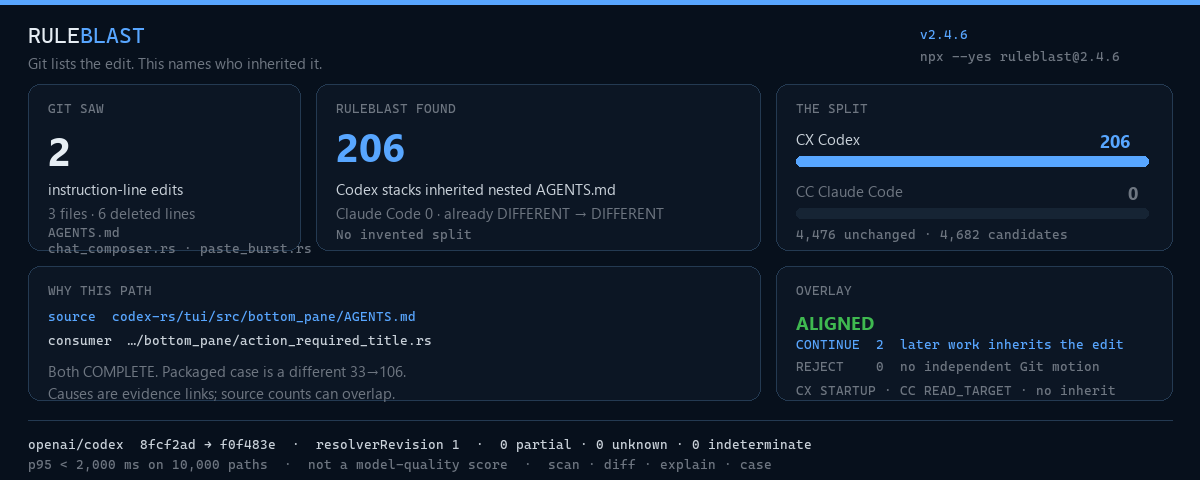
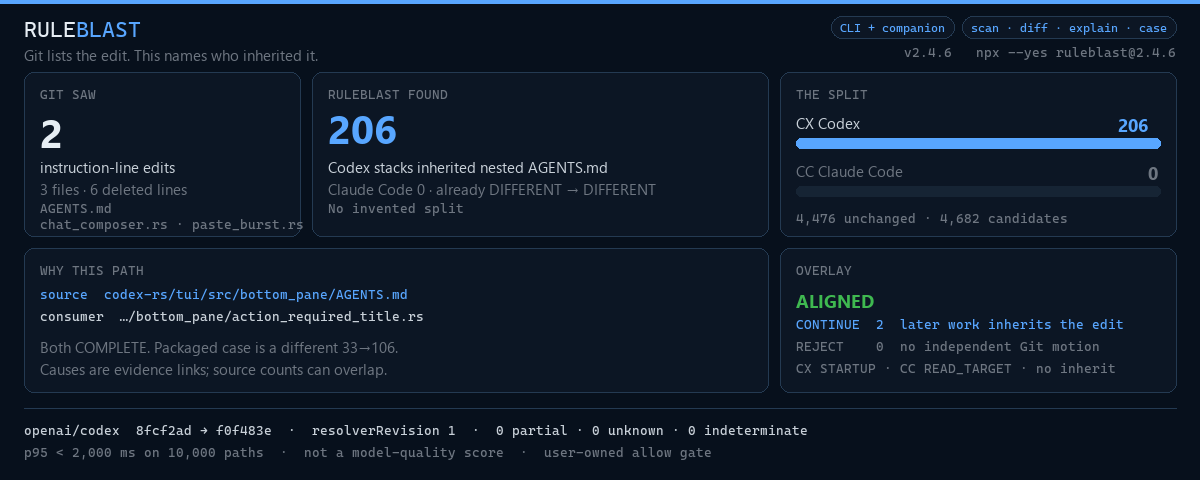
fix: type the README demo instead of scrolling a transcript

diff --git a/test/adoption-contract.test.ts b/test/adoption-contract.test.ts
@@ -366,7 +366,7 @@ describe("v2.4.7 adoption contract", () => {
       "RULEBLAST_POSTER=Git shows the edit; complete held frames only",
     );
     expect(createHash("sha256").update(bytes).digest("hex")).toBe(
[2 lines of base64/hex data omitted]
     );
 
     const descriptor = readJson<PackageDescriptor>("package.json");
@@ -408,7 +408,7 @@ describe("v2.4.7 adoption contract", () => {
     expect(bytes.readUInt32BE(20)).toBe(480);
     expect(statSync(join(repositoryRoot, asset)).size).toBeLessThanOrEqual(400_000);
     expect(createHash("sha256").update(bytes).digest("hex")).toBe(
[2 lines of base64/hex data omitted]
     );
     const board = read("assets/visual-benchmark.html");
     expect(board).toContain("v2.4.6");

diff --git a/assets/visual-benchmark.html b/assets/visual-benchmark.html
@@ -79,7 +79,7 @@
         <div class="brand">RULE<span>BLAST</span></div>
         <div class="sub">Git lists the edit. This names who inherited it.</div>
       </div>
-      <div class="meta">v2.4.6<small>npx --yes ruleblast@2.4.6</small></div>
+      <div class="meta">v2.4.6<small>CLI + companion · scan · diff · explain · case</small><small>npx --yes ruleblast@2.4.6</small></div>
     </header>
     <section class="kpis">
       <article class="card">

diff --git a/README.md b/README.md
@@ -1,7 +1,7 @@
 <h1 align="center">RuleBlast — Git diff for AI agent repository instructions</h1>
 
 <p align="center">
-  <img src="assets/ruleblast-hero.png?v=2.4.7p1" alt="RuleBlast — See the second diff. Local, read-only, evidence-first" width="100%">
+  <img src="assets/ruleblast-hero.png?v=2.4.7p2" alt="RuleBlast — See the second diff. Local, read-only, evidence-first" width="100%">
 </p>
 
 <p align="center">
@@ -23,7 +23,7 @@
 </p>
 
 <div align="center">
-  <img src="assets/ruleblast-causal-proof.gif?v=2.4.7p1" alt="Terminal demo: git sees 3 files and 6 deletions; ruleblast diff shows Codex 206 paths and Claude Code 0; explain names nested AGENTS.md" width="100%">
+  <img src="assets/ruleblast-causal-proof.gif?v=2.4.7p2" alt="Terminal demo: git sees 3 files and 6 deletions; ruleblast diff shows Codex 206 paths and Claude Code 0; explain names nested AGENTS.md" width="100%">
 </div>
 
 ```bash
@@ -43,7 +43,7 @@ npx --yes ruleblast@2.4.6 diff HEAD~1
 ## What Git missed
 
 <div align="center">
-  <img src="assets/ruleblast-visual-benchmark.png?v=2.4.7p1" alt="RuleBlast 2.4.6 scoreboard: Git saw 2 instruction lines; Codex 206, Claude Code 0; nested AGENTS.md; ALIGNED CONTINUE 2" width="100%">
+  <img src="assets/ruleblast-visual-benchmark.png?v=2.4.7p2" alt="RuleBlast 2.4.6 scoreboard: Git saw 2 instruction lines; Codex 206, Claude Code 0; nested AGENTS.md; ALIGNED CONTINUE 2" width="100%">
 </div>
 
 Git shows the instruction edit. It does not show every repository path that inherits it.

diff --git a/CHANGELOG.md b/CHANGELOG.md
@@ -7,7 +7,7 @@ All notable user-visible changes to RuleBlast are recorded here.
 - Evidence reveal names `SEALED`, `NO_KNOWN_DRIFT`, or `POSSIBLY_STALE` from committed candidate inventory. That is not a claim the vendor runtime is unchanged. Companion last-result lifecycle stays `CURRENT` / `STALE`. `--json` stays canonical.
 - Interpreter admission is the list of missing resolver operations. Fingerprint is not an admission input. Codex remains the only bundled spec the interpreter can execute. Claude, Gemini, and Copilot stay fingerprint oracles. No fifth bundled reality. No `--pack`.
 - Overlay REJECT restates OUTSIDE THIS BLAST and says it is not a recommendation to discard the Git change.
-- GitHub README causal-proof GIF is a 24-frame filled terminal of the published `ruleblast@2.4.6` CLI on the sealed openai/codex 2→206 pair (real three-file Git first diff). The visual board is a compact 1,200×480 strip. Those assets are not in the npm tarball.
+- GitHub README causal-proof GIF types the published `ruleblast@2.4.6` CLI, then prints output in batches, on the sealed openai/codex 2→206 pair. 24 frames, no HUD. The visual board is a compact 1,200×480 strip. Those assets are not in the npm tarball.
 - The published CLI people install is still `ruleblast@2.4.6`.
 
 ## 2.4.6 — RELEASED

diff --git a/ROADMAP.md b/ROADMAP.md
@@ -413,7 +413,7 @@ Interpreter admission is the list of uninterpretable resolver operations. Finger
 
 Overlay REJECT restates OUTSIDE THIS BLAST and says it is not a recommendation to discard the Git change.
 
-The GitHub README causal-proof GIF is a 24-frame filled terminal of the published `ruleblast@2.4.6` CLI on the sealed 2→206 pair. The visual board is a compact 1,200×480 strip. Those assets are not in the npm tarball.
+The GitHub README causal-proof GIF types the published `ruleblast@2.4.6` CLI and prints output in batches on the sealed 2→206 pair. 24 frames, no HUD. The visual board is a compact 1,200×480 strip. Those assets are not in the npm tarball.
 
 ## **NEXT** — Candidate reality conformance lab
 
